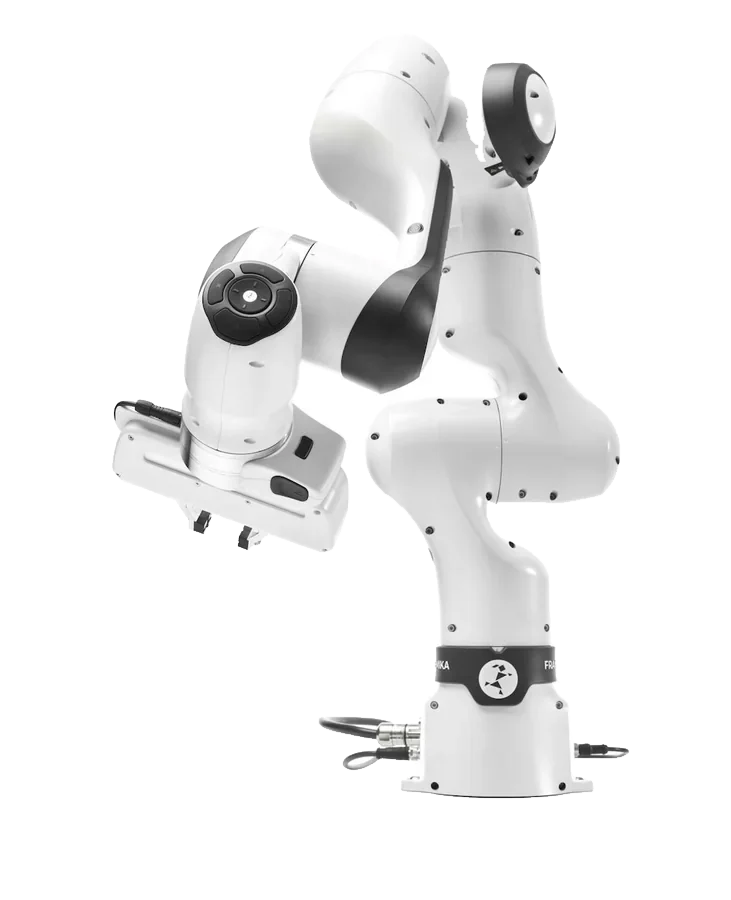
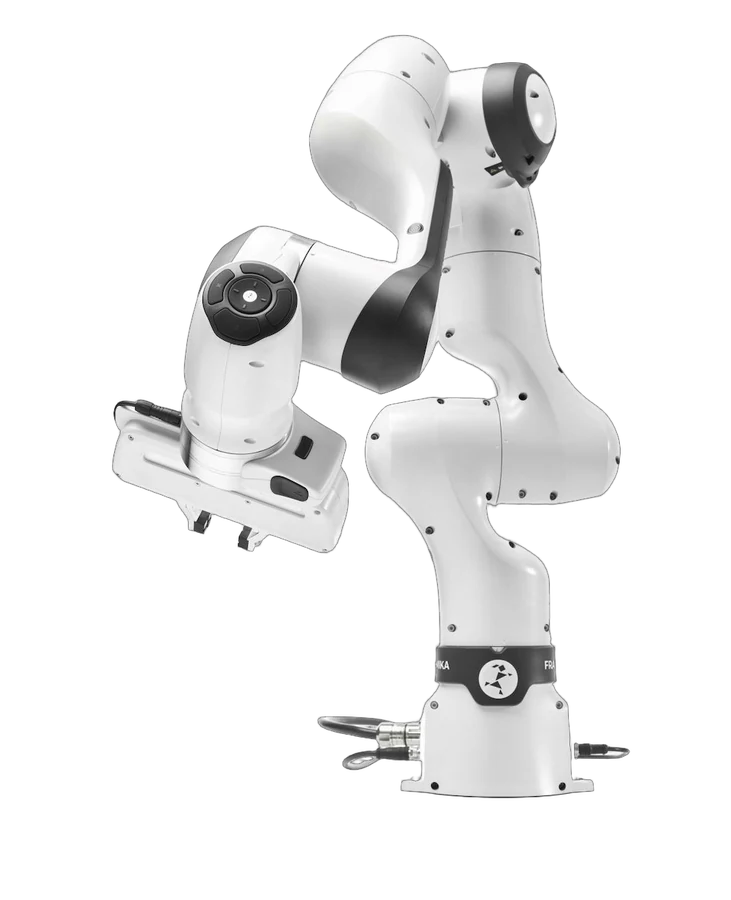
Re-cut the Franka, YAM and SO-ARM101 photos so enclosed gaps are see-through (BIT-3373)
The first cut-outs filled every hole in the matte, so the backdrop seen
inside cable loops, between gripper jaws and between the Franka's links
stayed white. On the peach stage those showed as white patches. The new
files are cut from the full-size photos with rembg's birefnet-general,
which keeps those gaps transparent; dark edges have the white backdrop
unmixed from them, white plastic keeps its own rim.

diff --git a/DESIGN.md b/DESIGN.md
@@ -94,7 +94,7 @@ The v5 copy got bad feedback ("copy is bad or misleading... messy... doesn't giv
 
 - **v9 (28 Oct 2026, user: "not gray anymore... a lighter grayish or white"):** Ben's light slides now sit on flat `#f1f1f1` without grain, so v9's light theme is paper `#f1f1f1`, alternate bands white `#fff`, no grain, and the orange of the mark `#ff6200` for the button and the offer band (black text on it is 5.7:1; Ben's slides put light text on orange, which is too faint for a button). The dark theme is v8's. Only the tokens changed: copy, films, order and layout are v8's.
 - **Leaderboard preview (v9, 28 Oct 2026, user request):** the landing board shows the top five; when a robot has more, a "Show all N policies" button under the list reveals every row and "Show top 5" folds them away. The choice holds while the reader switches robots, and the note under the board says "Top 5 of N shown" or "All N shown". It is a plain text button with a chevron, not a call to action.
-- **Robot photos on a light page (v9, user: "the bg of these embodiments is white.. and they are white"):** v8 multiplied the white-backdrop product photos into their stage, which paints every white part of a robot the stage colour, so white arms vanish on a white stage. v9 uses cut-outs instead (`public/v9/robots/`: Franka, YAM and SO-ARM101 cut with rembg `isnet-general-use`, then a solid matte with a 0.9 px soft edge, because rembg left the white body partly transparent and a haze around the Franka; G1 and the rover were already transparent) on a stage with no blend mode (`#e4e4e4` was too grey, then `#f7f7f7`; since 28 Oct 2026 the brand peach `#f2e3d9`, the disc behind the mark, at the user's request; the dark theme keeps `#cbcbcb`), so white robots stay white. The app's robot tabs use the same cut-outs and stage. **The G1 card photo must not carry a retailer mark:** the supplied shot had "ROBOSTORE" printed on the chest; it was retouched out of the 1125×2000 source (`v7-updates/landing_page_pics/unitree-g1.webp`) by filling that patch with a fitted model of the panel's shading. The Unitree triangle above it is the maker's own mark and stays. Same file in `public/v9/robots/` and `public/v7/robots/` (v7 and v8).
+- **Robot photos on a light page (v9, user: "the bg of these embodiments is white.. and they are white"):** v8 multiplied the white-backdrop product photos into their stage, which paints every white part of a robot the stage colour, so white arms vanish on a white stage. v9 uses cut-outs instead (`public/v9/robots/`: Franka, YAM and SO-ARM101; G1 and the rover were already transparent). Since 28 Oct 2026 they are cut from the full-size photos in `v7-updates/landing_page_pics/` with rembg's `birefnet-general`, which opens the gaps a robot encloses (inside cable loops, between gripper jaws, between links). The first cut (`isnet-general-use`, then a hole-filled matte) painted those gaps white, which showed as white patches once the stage turned peach. Edge pixels of dark parts have the white backdrop unmixed from them; white plastic keeps its own rim, because unmixing it draws a dark outline. Check a new cut-out on a saturated colour, not on the stage colour on a stage with no blend mode (`#e4e4e4` was too grey, then `#f7f7f7`; since 28 Oct 2026 the brand peach `#f2e3d9`, the disc behind the mark, at the user's request; the dark theme keeps `#cbcbcb`), so white robots stay white. The app's robot tabs use the same cut-outs and stage. **The G1 card photo must not carry a retailer mark:** the supplied shot had "ROBOSTORE" printed on the chest; it was retouched out of the 1125×2000 source (`v7-updates/landing_page_pics/unitree-g1.webp`) by filling that patch with a fitted model of the panel's shading. The Unitree triangle above it is the maker's own mark and stays. Same file in `public/v9/robots/` and `public/v7/robots/` (v7 and v8).
 - **New brand (v8):** light theme: paper silver `#cbcbcb` (Karen asked Ben for a lighter grey; change `--paper` when he does), text black `#1c1c1c`, orange `#ea5b02` for the one button and the offer band, a 15% black grain over the paper. Dark theme (the brand's Default): paper `#1c1c1c`, text silver `#cbcbcb`, orange `#ff6200` (the dark slides' Primary). Accent dots teal `#00b8c4` and red `#d42f33` exist in the brand but are not used on the page yet. Orange on silver is too light for text (2.3:1), so orange is a fill with black text on it, never a text colour on silver. Sharp rectangles and hairlines; no rounded cards.
 - Night mode (v5 to v7): page `#0b0d10`, panel `#13161a`, raised `#181c21`, line `#23272d`, text `#e8eaed`, muted `#8b929c`, dim `#5e6670`.
 - Accent: amber `#ffb224` (the badge colour). Used for the live dot, the primary button, the selected state. Nothing else is amber.
